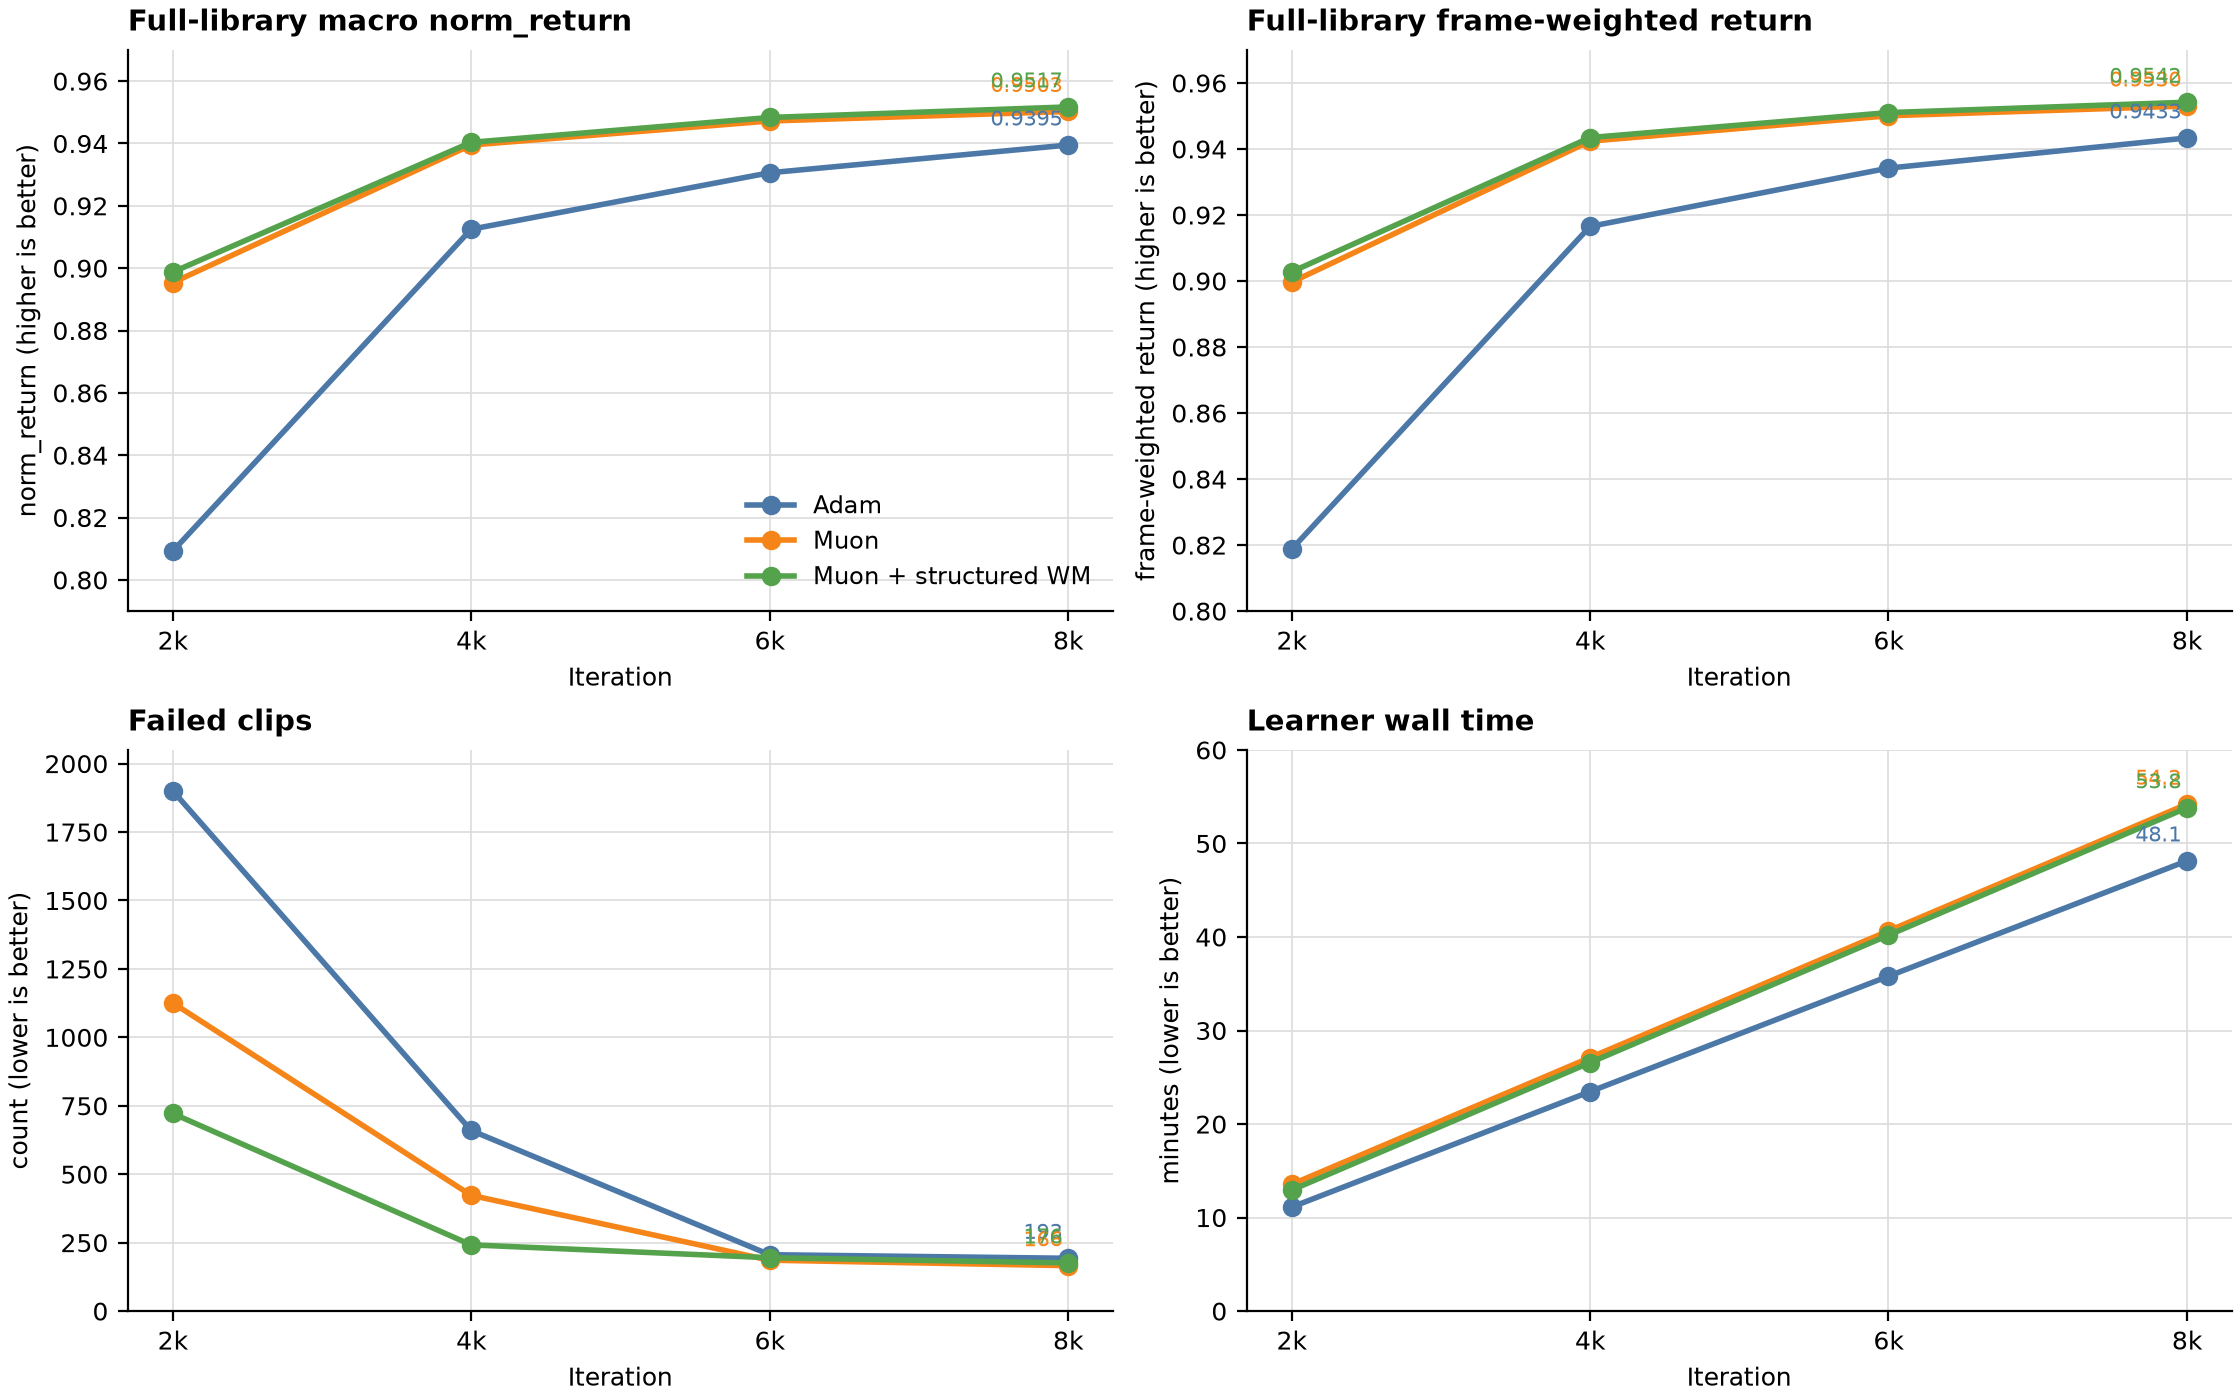
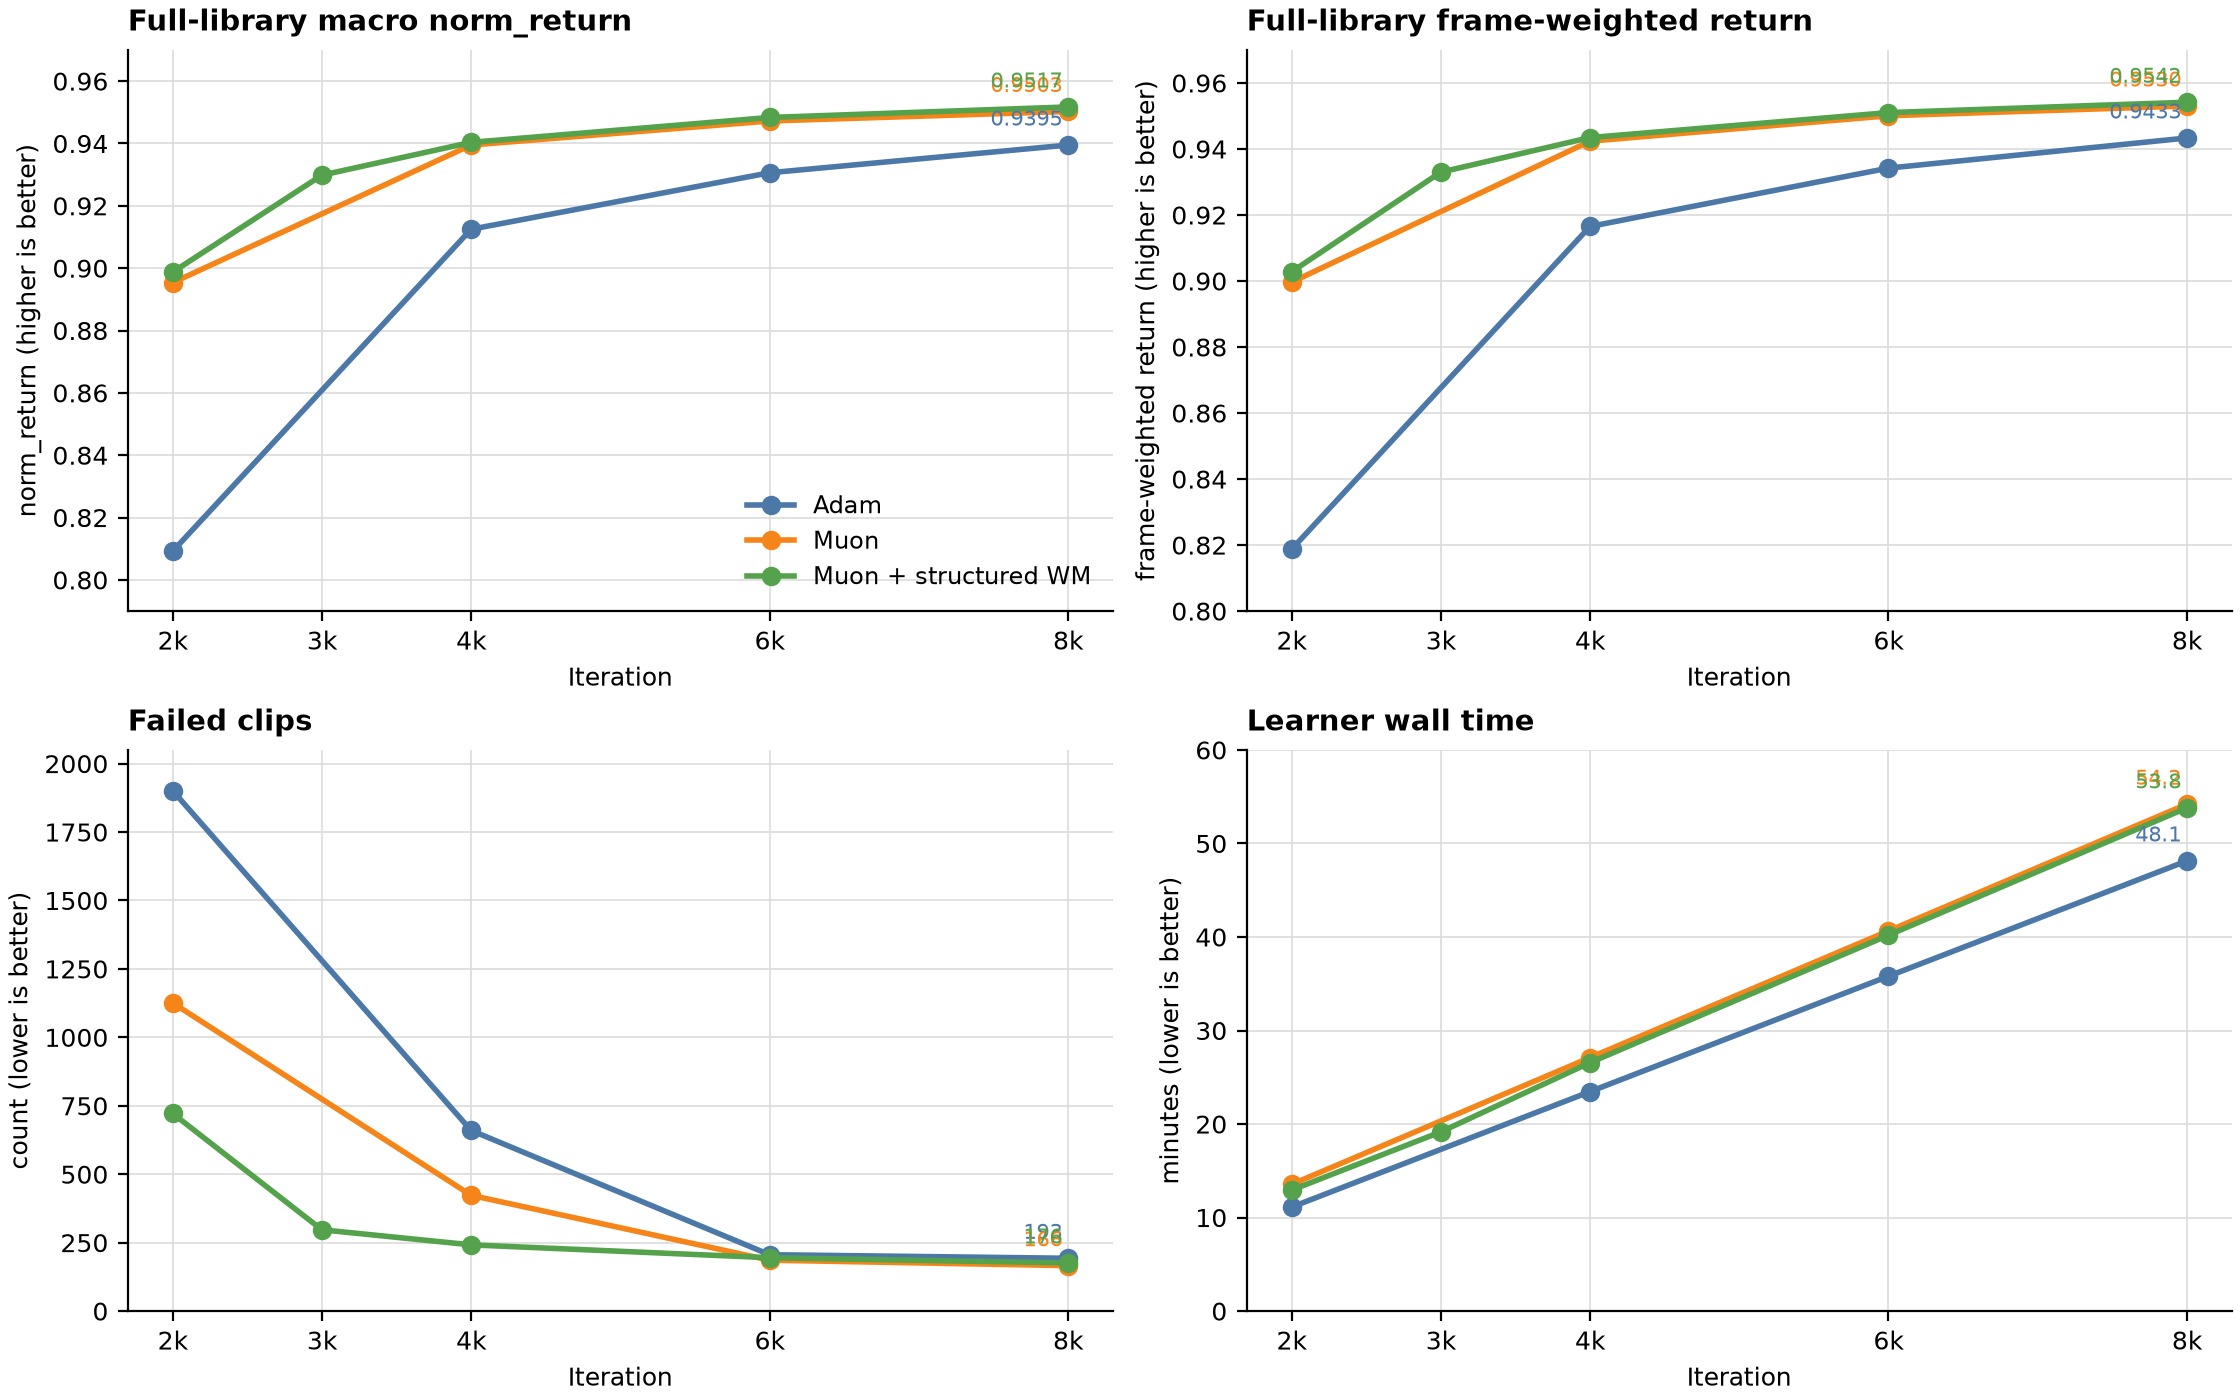
docs: add structured-WM 3k evaluation point

diff --git a/README.md b/README.md
@@ -302,9 +302,9 @@ The three seed-0 runs use mjwarp, 4096 environments, the complete 129,487-clip B
 
 Muon reaches the Adam 8000-iteration macro return in 4000 iterations (0.939500 versus 0.939490), although its 423 failed clips are not a strict success-rate match for Adam's 193 at 8000. At 8000 iterations, Muon improves macro return by 0.0108 and reduces failed clips from 193 to 166.
 
-Adding the structured world model improves macro and frame-weighted return at every checkpoint and greatly improves early success: failed clips drop from 1126 to 722 at 2000 iterations and from 423 to 242 at 4000. At 6000/8000 iterations it trades slightly more failures (195 versus 186, then 176 versus 166) for the higher mean return. Its 8000-iteration world-model 8-step error is 0.05635 versus 0.06252 for Muon (-9.9%), with only 0.54% lower measured throughput. Since this is a seed-0 engineering comparison, `wm_structured` remains opt-in.
+Adding the structured world model improves macro and frame-weighted return at every checkpoint and greatly improves early success: failed clips drop from 1126 to 722 at 2000 iterations and from 423 to 242 at 4000. Its additional 3000-iteration checkpoint reaches 0.929833 macro return, 0.932974 frame-weighted return, and 297 failed clips. At 6000/8000 iterations it trades slightly more failures (195 versus 186, then 176 versus 166) for the higher mean return. Its 8000-iteration world-model 8-step error is 0.05635 versus 0.06252 for Muon (-9.9%), with only 0.54% lower measured throughput. Since this is a seed-0 engineering comparison, `wm_structured` remains opt-in.
 
-![Adam, Muon, and Muon + structured WM: full-library evaluation and learner wall time at 2000, 4000, 6000, and 8000 iterations](docs/assets/muon_vs_adam_evaluation.png)
+![Adam, Muon, and Muon + structured WM: full-library evaluation and learner wall time at 2000, 3000, 4000, 6000, and 8000 iterations](docs/assets/muon_vs_adam_evaluation.png)
 
 Reproduce the Muon run after building `data/library/bones_seed_compact.pt`:
 

diff --git a/README_zh.md b/README_zh.md
@@ -302,9 +302,9 @@ Muon 优化器只作用于 policy encoder/decoder 和世界模型 MLP 的隐藏 
 
 Muon 在 4000 轮达到 Adam 8000 轮的宏平均 return（0.939500 vs 0.939490），但其 423 段失败不能视为与 Adam 8000 轮的 193 段严格等价。到 8000 轮时，Muon 将宏平均 return 提高 0.0108，失败段从 193 降至 166。
 
-结构化 WM 在每个 checkpoint 都提高宏平均与帧加权 return，并明显改善早期成功率：2000 轮失败段从 1126 降至 722，4000 轮从 423 降至 242。6000/8000 轮则以略多失败段（195 vs 186、176 vs 166）换取更高平均 return。8000 轮时其世界模型 8 步误差为 0.05635，低于 Muon 的 0.06252（-9.9%），实测吞吐仅低 0.54%。由于这是 seed-0 工程对照，`wm_structured` 仍保持可选。
+结构化 WM 在每个 checkpoint 都提高宏平均与帧加权 return，并明显改善早期成功率：2000 轮失败段从 1126 降至 722，4000 轮从 423 降至 242。其补充的 3000 轮 checkpoint 达到宏平均 return 0.929833、帧加权 return 0.932974、297 段失败。6000/8000 轮则以略多失败段（195 vs 186、176 vs 166）换取更高平均 return。8000 轮时其世界模型 8 步误差为 0.05635，低于 Muon 的 0.06252（-9.9%），实测吞吐仅低 0.54%。由于这是 seed-0 工程对照，`wm_structured` 仍保持可选。
 
-![Adam、Muon 与 Muon + 结构化 WM：2000/4000/6000/8000 轮全库评估与训练墙钟](docs/assets/muon_vs_adam_evaluation.png)
+![Adam、Muon 与 Muon + 结构化 WM：2000/3000/4000/6000/8000 轮全库评估与训练墙钟](docs/assets/muon_vs_adam_evaluation.png)
 
 构建 `data/library/bones_seed_compact.pt` 后，可按以下命令复现 Muon run：
 
